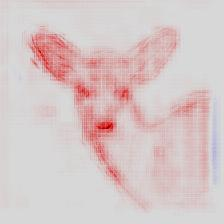
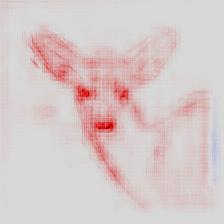
Datahandler fixed
fixed datahandler to be usable

diff --git a/methods/LRP.py b/methods/LRP.py
@@ -6,6 +6,7 @@ import copy
 
 import matplotlib
 from matplotlib import pyplot as plt
+import os
 
 """
 Model code and utility functions downloaded from   :
@@ -36,7 +37,7 @@ def heatmap(R, sx, sy,name=None,save=False):
     if save :
         name = "results/LRP/" + name +".jpg"
         plt.imsave(name,R, cmap=my_cmap, vmin=-b, vmax=b)
-
+    plt.close()
     ##plt.show()
 
 
@@ -105,7 +106,7 @@ def toconv(layers, model):
 
 
 #TODO adjust to json label file
-def LRP(img,picture, model, model_str, save=True):
+def explain(img,picture, model, model_str, save=True):
     """
     :param picture: at the moment string to picture location, can be changed to the picture itself
     :param model: the model to use, not the name the whole model itself
@@ -113,27 +114,11 @@ def LRP(img,picture, model, model_str, save=True):
     :param save: if we want to save the results or not
     :return: None
     """
-    """
-    img = torch.squeeze(img)
-    print(img.shape)
-    img = img.permute(2,1,0).numpy()
-    img = np.array(cv2.imread(picture))
 
-    img = np.asarray(cv2.resize(img, (224, 224), interpolation=cv2.INTER_CUBIC))
-    print(img.shape)
-    img = (img[..., ::-1] / 255.0)
-    #img = img/255.0
-    mean = torch.Tensor([0.485, 0.456, 0.406]).reshape(1, -1, 1, 1)
-    std = torch.Tensor([0.229, 0.224, 0.225]).reshape(1, -1, 1, 1)
-    print(img.shape)
-    X = (torch.FloatTensor(img[np.newaxis].transpose([0, 3, 1, 2]) * 1) - mean) / std
-    #X = (torch.FloatTensor(img.transpose([0, 3, 1, 2]) * 1) - mean) / std
-    """
     mean = torch.Tensor([0.485, 0.456, 0.406]).reshape(1, -1, 1, 1)
     std = torch.Tensor([0.229, 0.224, 0.225]).reshape(1, -1, 1, 1)
 
     X = img
-    print(X.shape)
     layers = list(model._modules['features']) + toconv(list(model._modules['classifier']), model_str)
     L = len(layers)
 
@@ -178,8 +163,7 @@ def LRP(img,picture, model, model_str, save=True):
     else:
         layers_map = [31, 21, 11, 1]
 
-    name = picture.rsplit("/")[-1]
-    name = name.rsplit(".")[0]
+    name = os.path.splitext(picture)[0]
     name = name + "_" + model_str
     for i, l in enumerate(layers_map):
         if l == layers_map[-1] and model_str=="vgg":

diff --git a/main.py b/main.py
@@ -2,6 +2,9 @@ from methods import data_handler, gradcam, LRP
 import models
 
 # TODO Argparse for dorect calling
+# TODO nameming the output
+# TODO gradcam
+
 def main(Vgg:bool,
          AlexNet : bool,
          num_images : int,
@@ -14,22 +17,21 @@ def main(Vgg:bool,
 
     # import image
     data = data_handler.get_image(img_folder)
+    files = data_handler.get_files(img_folder)
     labels = data_handler.get_labels()
 
-    imgpath = './data/images/gazelle.jpg'
 
     for i in range(num_images):
         img, _ = next(data)
-        print(img.shape)
-        print(img)
-        if vgg :
-            gradcam.explain(vgg.model, imgpath)
-            LRP.LRP(img, imgpath, vgg.model, vgg.name)
-        if alex :
-            gradcam.explain(alex.model, imgpath)
-            LRP.LRP(img, imgpath, alex.model, alex.name)
+        if Vgg :
+            LRP.explain(img, files[i], vgg.model, vgg.name)
+        if AlexNet :
+            LRP.explain(img, files[i], alex.model, alex.name)
 
-
-
+    """
+    # load original: as long as nobody needs to use shuffle
+    img = np.asarray(cv2.imread("./data/images/"+files[0]))
+    img = np.asarray(cv2.resize(img, (224, 224), interpolation=cv2.INTER_CUBIC))
+    """
 if __name__ == '__main__' :
     main(True,False,4,'./data/')

diff --git a/methods/data_handler.py b/methods/data_handler.py
@@ -3,25 +3,31 @@ from torch.utils import data
 import torchvision.transforms as transforms
 import json
 from torchvision.datasets.utils import download_url
-
+import os
 
 
 
 def get_image(path):
     # get the image from the dataloader
-    dataset = datasets.ImageFolder(root=path, transform=transform())
+    dataset = datasets.ImageFolder(root=path,transform=transform())
     dataloader = data.DataLoader(dataset=dataset, shuffle=False,batch_size=1)  # batch_size=1
     return iter(dataloader)
 
 
 def transform():
-
+    # transforms.ToTensor() normalizes input data from 0-255 to 0-1
     transform = transforms.Compose([transforms.Resize((224, 224)),
                                     transforms.ToTensor(),
-                                    transforms.Normalize(mean=[0.485, 0.456, 0.406], std=[0.229, 0.224, 0.225])])
+                                    transforms.Normalize(mean=[0.485, 0.456, 0.406], std=[0.229, 0.224, 0.225])
+                                    ])
 
     return transform
 
+def get_files(path):
+    images = "images/"
+    files = os.listdir(path+images)
+
+    return files
 
 
 def get_labels():
